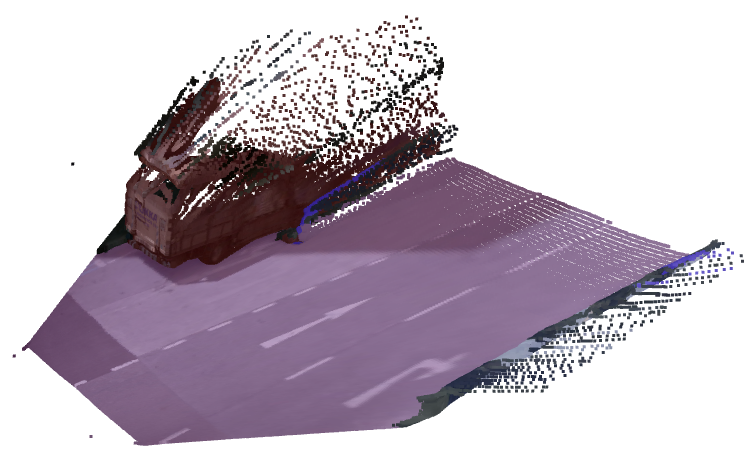
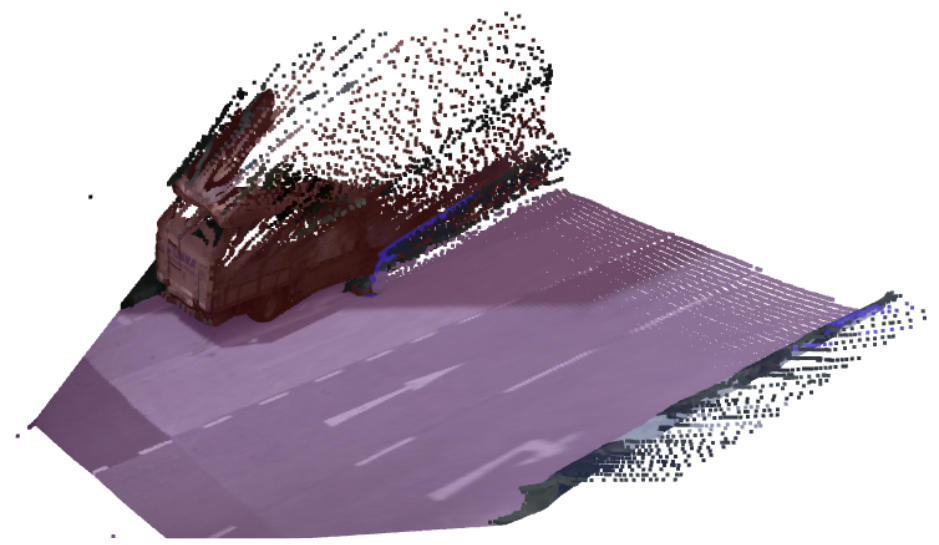
Figura 14

diff --git a/src/scene_renderer.py b/src/scene_renderer.py
@@ -477,8 +477,49 @@ class DebugBEVMap(AppWindow):
         mesh.compute_triangle_normals()
         return mesh
 
-    def _get_accum_pcd(self, cur_pcd:np.ndarray, cur_pcd_colors:np.ndarray, prev_pcd:o3d.geometry.PointCloud, transform_4x4:np.ndarray, lims:tuple = (10, 5, 30),):
-        """prev_pcd is in odom frame and current is in camera frame"""
+    def _get_accum_pcd(self, semantic_data:dict, prev_pcd:o3d.geometry.PointCloud, transform_4x4:np.ndarray, lims:tuple = (10, 5, 30),):
+        """prev_pcd is in odom frame and current is in camera frame
+        semantic_data:
+        {   
+            'label': str, 
+            'label_id': int,
+            'camera_name': str,
+            'dynamic': bool, 
+            'pcd': np.ndarray, 
+            'pcd_colors': np.ndarray,
+            'instance_pcds': [{
+                'inst_id': int, 
+                'pcd': np.ndarray, 
+                'pcd_colors': np.ndarray
+            }],
+            'instance_3dboxes':[{
+                'inst_id': int, 
+                'center': (x_pos, y_pos, z_pos), 
+                'dimensions': (bbox_width, bbox_height, bbox_depth)  
+            }],
+            'instance_bev_mask':[{
+                'inst_id': int,
+                'occupancy_mask': (H, W) binary mask,
+                'oclussion_mask': (H, W) binary mask
+        }
+        """
+        cur_pcd = semantic_data['pcd']
+        cur_pcd_colors = semantic_data['pcd_colors']
+        
+        # print(f"Computing accum pcd for: {semantic_data['label']}")
+        # if not semantic_data['dynamic']:
+        #     cur_pcd = semantic_data['pcd']
+        #     cur_pcd_colors = semantic_data['pcd_colors']
+        #     print(f"Non Dynamic cur_pcd.shape: {cur_pcd.shape}")
+        # else:
+        #     cur_pcd, cur_pcd_colors = np.empty((0, 3)), np.empty((0, 3))
+        #     num_instances = len(semantic_data['instance_pcds'])
+        #     for i in range(num_instances):
+        #         cur_pcd = np.vstack([cur_pcd, semantic_data['instance_pcds'][i]['pcd']])
+        #         cur_pcd_colors = np.vstack([cur_pcd_colors, semantic_data['instance_pcds'][i]['pcd_colors']])
+        #     print(f"Dynamic (there are {num_instances} instances) cur_pcd.shape: {cur_pcd.shape}")
+        # assert cur_pcd.size > 0
+
         mask = (abs(cur_pcd[:, 0]) <= lims[0]) & (abs(cur_pcd[:, 1]) <= lims[1]) & (abs(cur_pcd[:, 2]) <= lims[2])
         cur_pcd         = cur_pcd[mask]
         cur_pcd_colors  = cur_pcd_colors[mask]
@@ -725,7 +766,7 @@ class DebugBEVMap(AppWindow):
                     prev_accum_pcd = None
                     if fk-1 in self.frame_acc_pcd and semantic_label in self.frame_acc_pcd[fk-1]:
                         prev_accum_pcd =  self.frame_acc_pcd[fk-1][semantic_label]
-                    self.frame_acc_pcd[fk][semantic_label] = self._get_accum_pcd(semantic_data['pcd'], semantic_data['pcd_colors'], prev_accum_pcd, transform_4x4)  
+                    self.frame_acc_pcd[fk][semantic_label] = self._get_accum_pcd(semantic_data, prev_accum_pcd, transform_4x4)  
                 all_pcds.append(self.frame_acc_pcd[fk][semantic_label])
                 all_pcd_ids.append(f"{semantic_label}_pcd_{fk}")
 
@@ -775,8 +816,9 @@ class DebugBEVMap(AppWindow):
         # for i, pcd in enumerate(aux_pcds):
         #     self._scene.scene.add_geometry(f"debuggig_pcds_{i}_{fk}", pcd, self.settings.material)
 
-        occ_pcd = self.vehicle_gridmap.get_pcd_for_debugging(frame_num=fk, oy_color=self.settings.oy_color, on_color=self.settings.on_color)
-        self._scene.scene.add_geometry(f"occupancy_occlusion_pcd_{fk}", occ_pcd, self.settings.material)
+        # Render occupancy/occlusion
+        # occ_pcd = self.vehicle_gridmap.get_pcd_for_debugging(frame_num=fk, oy_color=self.settings.oy_color, on_color=self.settings.on_color)
+        # self._scene.scene.add_geometry(f"occupancy_occlusion_pcd_{fk}", occ_pcd, self.settings.material)
 
         # Update camera and ego
         self._update_camera_ego(fk)

diff --git a/documents/sections/3-methodology.tex b/documents/sections/3-methodology.tex
@@ -409,7 +409,7 @@ Once the semantic mask has been preprocessed and the point cloud computed, a pre
     \end{subfigure}
     \hfill
     \begin{subfigure}[b]{0.45\textwidth}
-        \includegraphics[width=\textwidth]{images/shared/no_signal.jpg}
+        \includegraphics[width=\textwidth]{images/methodology/pcd_semantic_filtered.png}
         \caption{}
         \label{fig:semantic_pointcloud_b}
     \end{subfigure}
